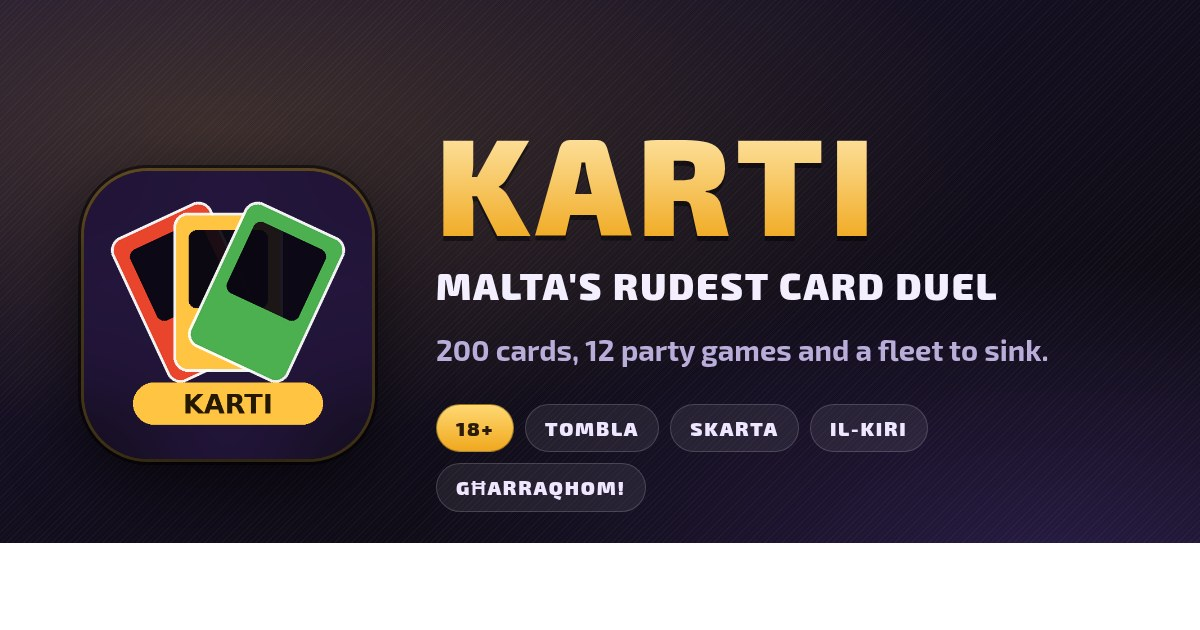
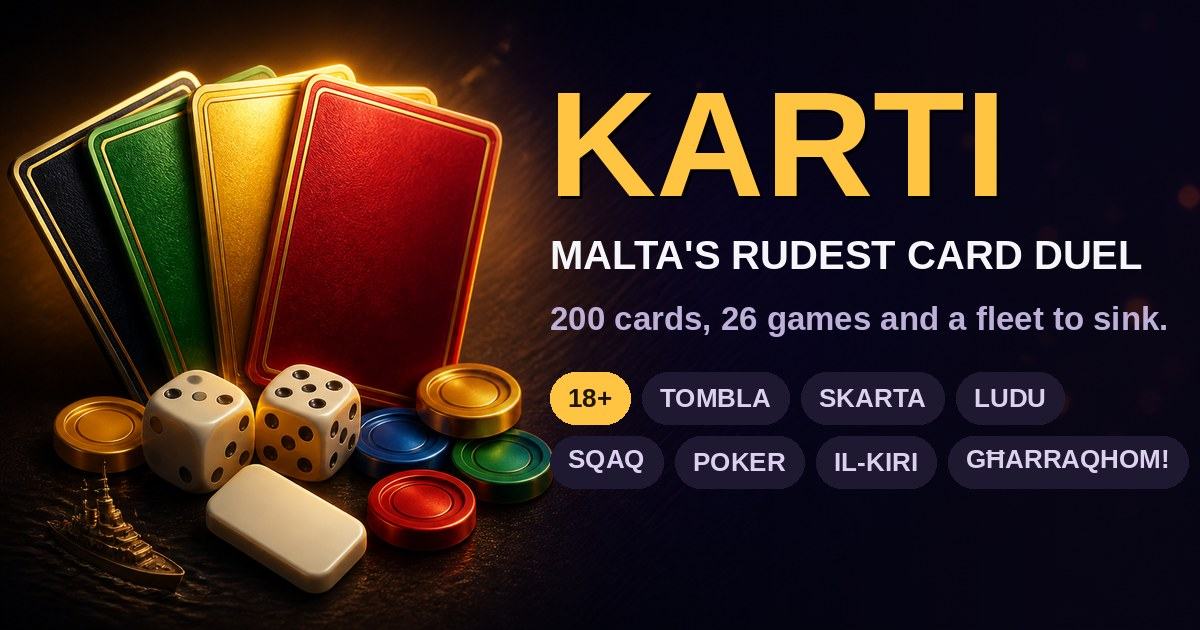
KARTI: refresh the share card — 26 games, new artwork
The link-preview card still said "200 cards, 12 party games" — we're at
26 games now (SQAQ, LUDU and the rest). Updated the og/twitter
description text and rebuilt share.jpg: fresh Codex-generated hero art
(card fan, dice, chips, a half-sunk battleship for the "fleet to sink")
with the exact wording composited in code so the count is guaranteed
right — image models garble text, so Codex did the picture and PIL laid
the words. Bumped the og:image URL to ?v=246 so WhatsApp and other
scrapers refetch instead of serving the cached old card. Build 246.

Claude-Session: https://claude.ai/code/session_01Q55X5n8LA6xgNosSpJws7r

diff --git a/index.html b/index.html
@@ -22,17 +22,17 @@
 <meta property="og:type"        content="website">
 <meta property="og:site_name"   content="KARTI">
 <meta property="og:title"       content="KARTI — Malta's rudest card duel">
-<meta property="og:description" content="200 cards, 12 party games and a fleet to sink. Free, on your phone. 18+">
+<meta property="og:description" content="200 cards, 26 games and a fleet to sink. Free, on your phone. 18+">
 <meta property="og:url"         content="https://terencecamilleripesci.github.io/KARTI/">
-<meta property="og:image"       content="https://terencecamilleripesci.github.io/KARTI/art/ui/share.jpg">
+<meta property="og:image"       content="https://terencecamilleripesci.github.io/KARTI/art/ui/share.jpg?v=246">
 <meta property="og:image:width"  content="1200">
 <meta property="og:image:height" content="630">
 <meta property="og:image:alt"   content="KARTI — Malta's rudest card duel">
 <meta property="og:locale"      content="en_MT">
 <meta name="twitter:card"        content="summary_large_image">
 <meta name="twitter:title"       content="KARTI — Malta's rudest card duel">
-<meta name="twitter:description" content="200 cards, 12 party games and a fleet to sink. Free, on your phone. 18+">
-<meta name="twitter:image"       content="https://terencecamilleripesci.github.io/KARTI/art/ui/share.jpg">
+<meta name="twitter:description" content="200 cards, 26 games and a fleet to sink. Free, on your phone. 18+">
+<meta name="twitter:image"       content="https://terencecamilleripesci.github.io/KARTI/art/ui/share.jpg?v=246">
 <link rel="manifest" href="manifest.json">
 <!-- THE ICON, DECLARED THE WAY THINGS ACTUALLY ASK FOR IT.
      /favicon.ico is requested BY NAME, at the site root, by browsers and by
@@ -2365,7 +2365,7 @@ window.KARTI_THEME = (function(){
    over a MessageChannel, and the answer comes from the script iOS actually
    activated — not from the server, not from a constant. Keep BUILD in step
    with CACHE in sw.js (bump both on every deploy). */
-var KARTI_BUILD = 245;
+var KARTI_BUILD = 246;
 window.KARTI_BUILD = KARTI_BUILD;
 window.swVersion = function(){
   return new Promise(function(resolve){

diff --git a/sw.js b/sw.js
@@ -2,7 +2,7 @@
    Deliberately narrow: it never touches cross-origin requests and never
    touches range requests, because a greedy SW broke a previous project.
    Bump CACHE on every deploy. */
-const CACHE = 'karti-v245';
+const CACHE = 'karti-v246';
 /* ── THE SHELL, NOT THE GAME ─────────────────────────────────────────────────
    This list used to be 205 entries / ~24 MB — every game module and every
    per-game portrait — so a first install (and EVERY version bump) re-fetched
